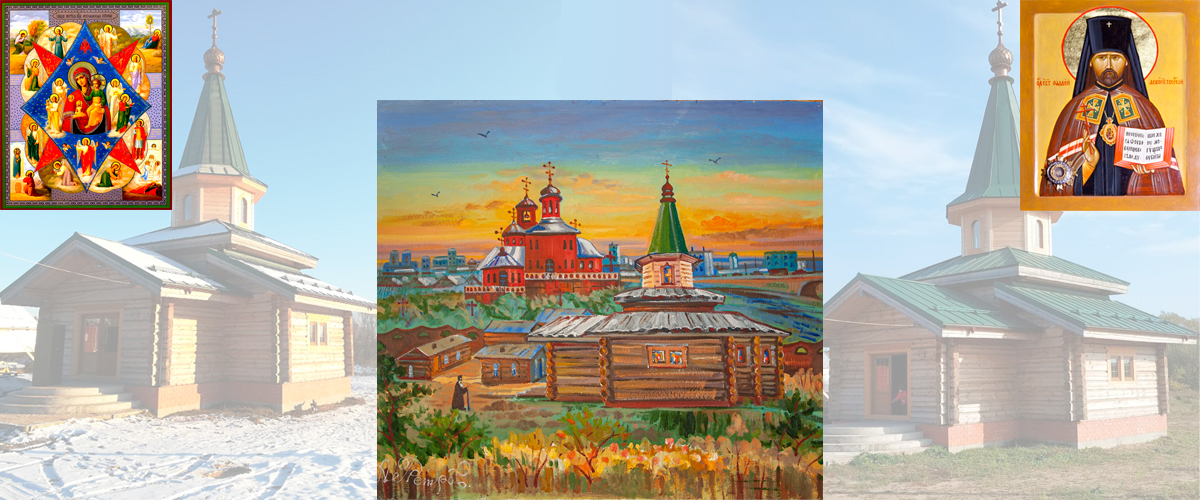
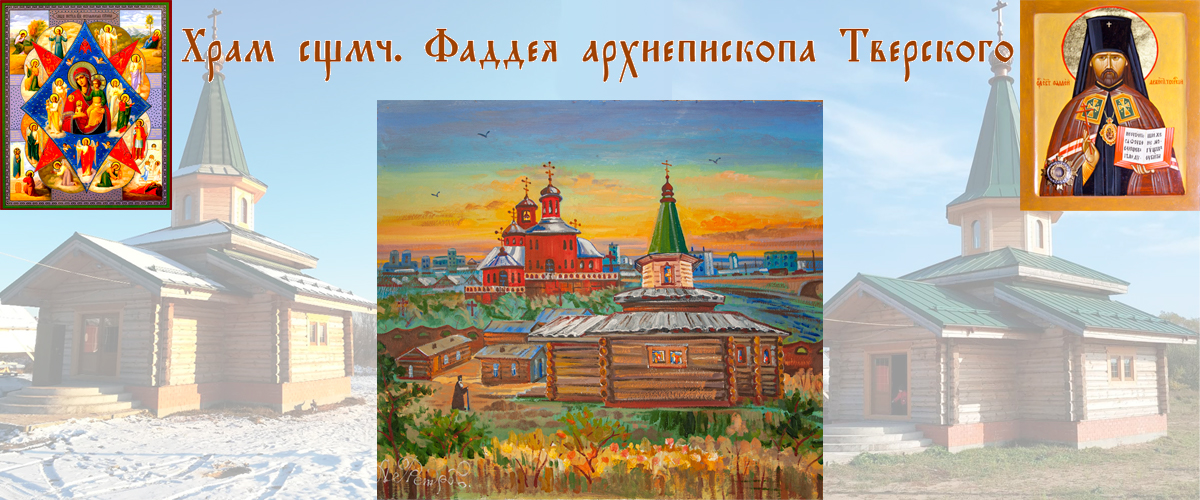
Новая шапка, вариант 3.

Changed region(s): [[0.1542, 0.06, 0.8633, 0.18]]

diff --git a/fontwatch/index.php b/fontwatch/index.php
@@ -64,6 +64,10 @@ include '../include/topscripts.php';
             <h1 class="vertograd-dropcaps">Храм священномученика Фаддея, архиепископа Тверского</h1>
             
             <h2>Сайт в разработке. Зайдите через несколько дней.</h2>
+            
+            <br /><br /><br /><br /><br /><br />
+            <h1 class="triodion" style="font-size: 60px; color: #8b4513;">Храм сщмч. Фаддея архиепископа Тверского</h1>
+            <br /><br /><br /><br /><br /><br />
         </div>
         <?php
         include '../include/footer.php';
